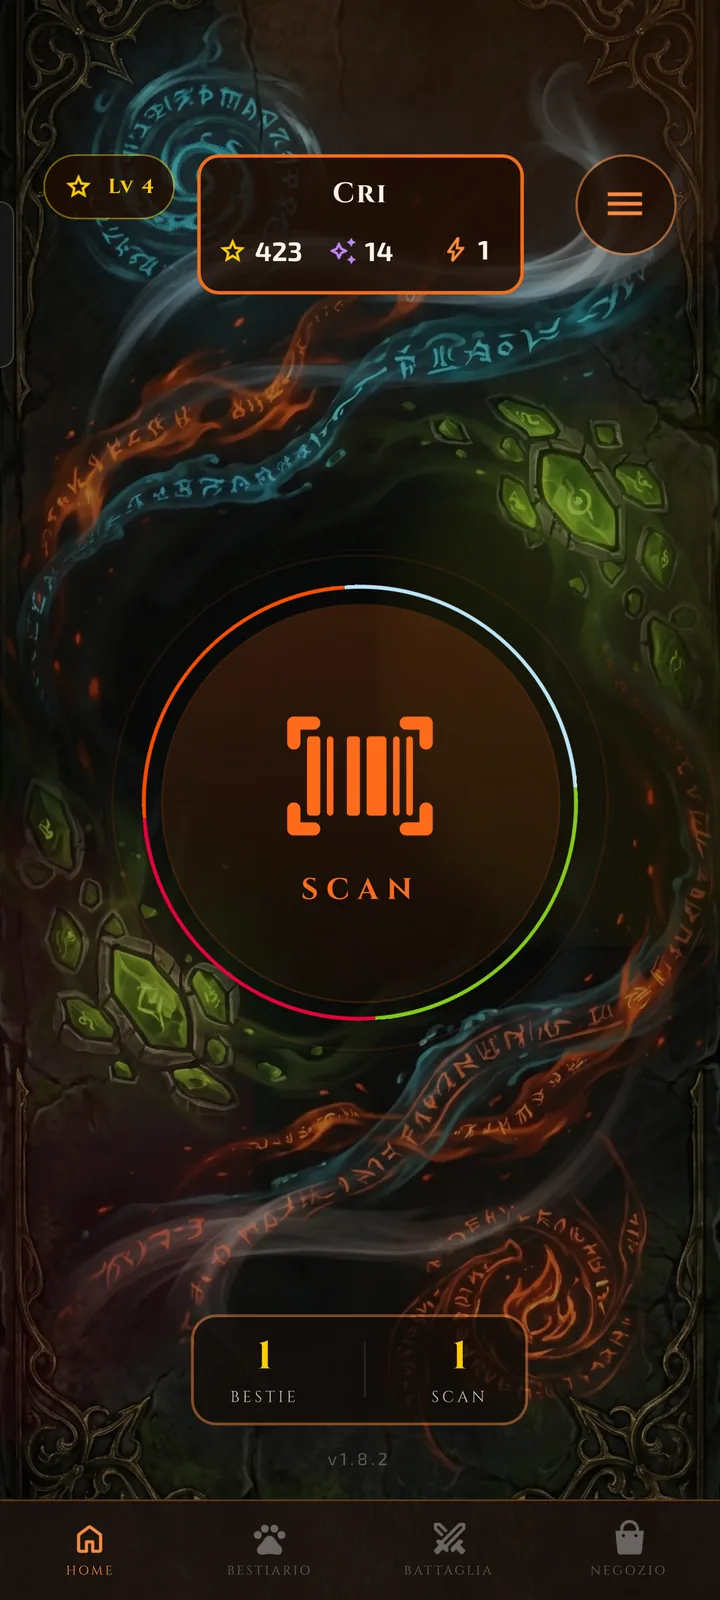
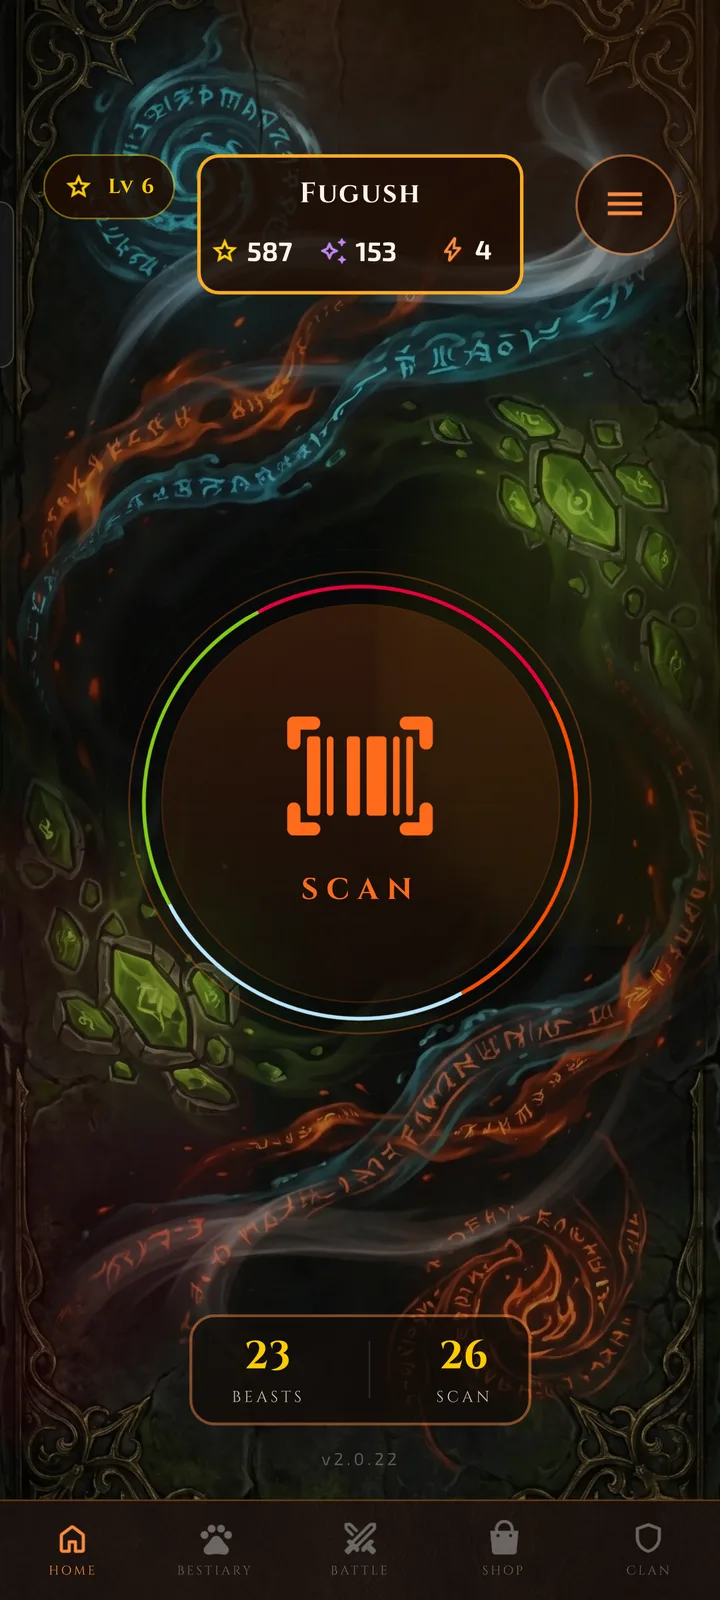
content(gallery): 2.0.22 screenshots, eight instead of thirteen
The gallery still carried the 1.8.0 batch: no profile card, the old
leaderboard row and an interface several releases behind. Replaced with
eight shots taken on 2.0.22 — home, Water bestiary, battle, Season Pass,
the redesigned leaderboard, clan info, chest shop and frame shop — resized
from 1260x2800 to 720x1600 webp q82, the same recipe as the previous batch.

Eight rather than thirteen: the strip now shows three at a time, and the
reveal cascade in the stylesheet only staggers up to the eighth child.
shot-9 through shot-13 are gone rather than left orphaned in the tree.

The cache-buster moves from ?v=1.8.0 to ?v=2.0.22 — the filenames are
recycled, so without it browsers would keep showing the old interface. The
hero crossfade in app.js needed the same query, which it was missing
entirely; its order is now home, battle, bestiary, leaderboard, clan, pass.

diff --git a/index.html b/index.html
@@ -75,7 +75,7 @@
 
       <div class="phone-wrap">
         <div class="phone" id="phone">
-          <img class="phone-shot active" src="assets/img/shot-1.webp?v=1.8.0" alt="ScanBeast home screen with the central Scan button" width="720" height="1600">
+          <img class="phone-shot active" src="assets/img/shot-1.webp?v=2.0.22" alt="ScanBeast home screen with the central Scan button" width="720" height="1600">
         </div>
       </div>
     </div>
@@ -182,19 +182,14 @@
       </div>
     </div>
     <div class="gallery reveal-group">
-      <img src="assets/img/shot-1.webp?v=1.8.0" alt="Home screen with the central Scan button" loading="lazy">
-      <img src="assets/img/shot-2.webp?v=1.8.0" alt="Home screen with the main menu open" loading="lazy">
-      <img src="assets/img/shot-3.webp?v=1.8.0" alt="Bestiary — Air element collection" loading="lazy">
-      <img src="assets/img/shot-4.webp?v=1.8.0" alt="Beast details — stats and lore" loading="lazy">
-      <img src="assets/img/shot-5.webp?v=1.8.0" alt="Battle — choose your champion" loading="lazy">
-      <img src="assets/img/shot-6.webp?v=1.8.0" alt="Battle — live turn-based combat" loading="lazy">
-      <img src="assets/img/shot-7.webp?v=1.8.0" alt="Battle reward — XP and essence" loading="lazy">
-      <img src="assets/img/shot-8.webp?v=1.8.0" alt="Shop — consumables" loading="lazy">
-      <img src="assets/img/shot-9.webp?v=1.8.0" alt="Shop — chests" loading="lazy">
-      <img src="assets/img/shot-10.webp?v=1.8.0" alt="Shop — card styles" loading="lazy">
-      <img src="assets/img/shot-11.webp?v=1.8.0" alt="Online leaderboard" loading="lazy">
-      <img src="assets/img/shot-12.webp?v=1.8.0" alt="Season Pass rewards" loading="lazy">
-      <img src="assets/img/shot-13.webp?v=1.8.0" alt="Goals — missions and trophies" loading="lazy">
+      <img src="assets/img/shot-1.webp?v=2.0.22" alt="Home screen with the central Scan button" loading="lazy">
+      <img src="assets/img/shot-2.webp?v=2.0.22" alt="Bestiary — the Water element collection" loading="lazy">
+      <img src="assets/img/shot-3.webp?v=2.0.22" alt="Battle — turn-based combat against a wild beast" loading="lazy">
+      <img src="assets/img/shot-4.webp?v=2.0.22" alt="Season Pass — free reward tiers" loading="lazy">
+      <img src="assets/img/shot-5.webp?v=2.0.22" alt="Online leaderboard — top players by XP, with clan and language flag" loading="lazy">
+      <img src="assets/img/shot-6.webp?v=2.0.22" alt="Clan info — members, total XP and settings" loading="lazy">
+      <img src="assets/img/shot-7.webp?v=2.0.22" alt="Shop — coin chests" loading="lazy">
+      <img src="assets/img/shot-8.webp?v=2.0.22" alt="Shop — cosmetic card frames" loading="lazy">
     </div>
   </section>
 

diff --git a/assets/js/app.js b/assets/js/app.js
@@ -278,12 +278,17 @@
     if (!phone) return;
     var first = phone.querySelector(".phone-shot");
     if (!first) return;
-    var shots = ["shot-1", "shot-2", "shot-5", "shot-4", "shot-6", "shot-3"];
+    // Ordine del crossfade: home, battaglia, bestiario, classifica, clan, pass.
+    // La query di versione va tenuta uguale a quella degli <img> in index.html,
+    // altrimenti il browser ricicla dalla cache gli screenshot della release
+    // precedente (i numeri restano, il contenuto no).
+    var shots = ["shot-1", "shot-3", "shot-2", "shot-5", "shot-6", "shot-4"];
+    var shotsVer = "2.0.22";
     var layers = [first];
     for (var i = 1; i < shots.length; i++) {
       var img = document.createElement("img");
       img.className = "phone-shot";
-      img.src = "assets/img/" + shots[i] + ".webp";
+      img.src = "assets/img/" + shots[i] + ".webp?v=" + shotsVer;
       img.alt = ""; img.loading = "lazy"; img.width = 720; img.height = 1600;
       phone.appendChild(img);
       layers.push(img);
